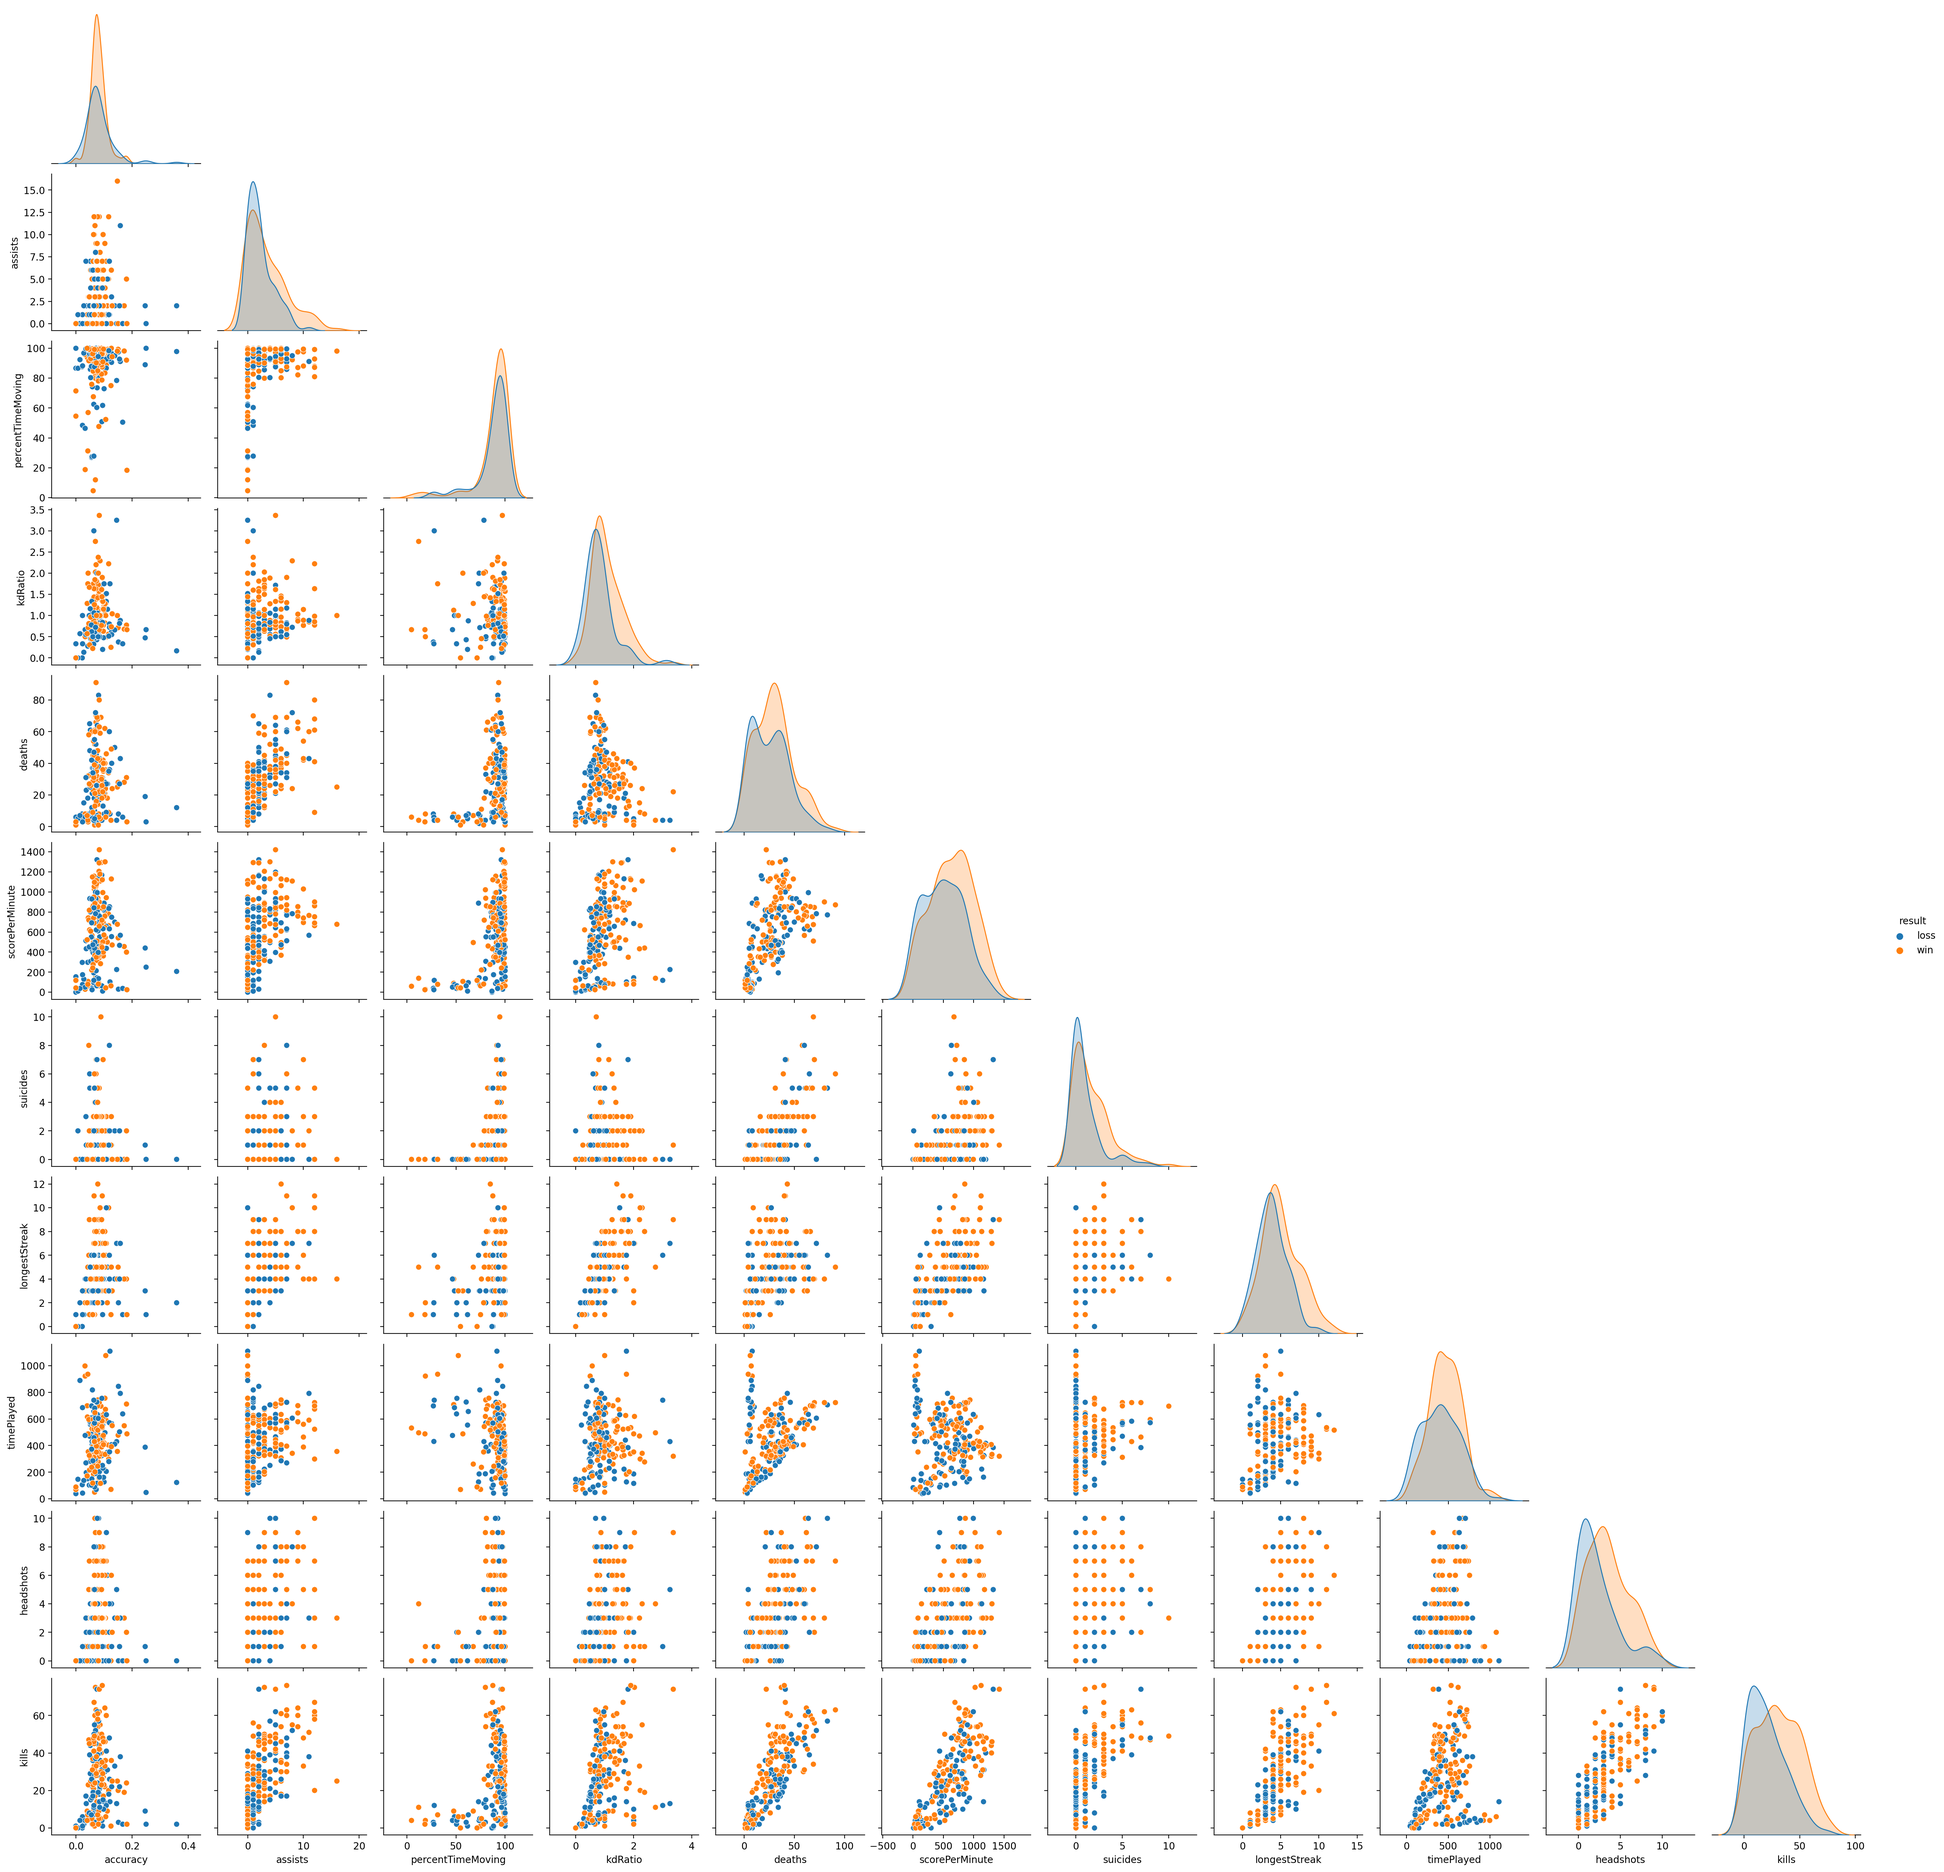
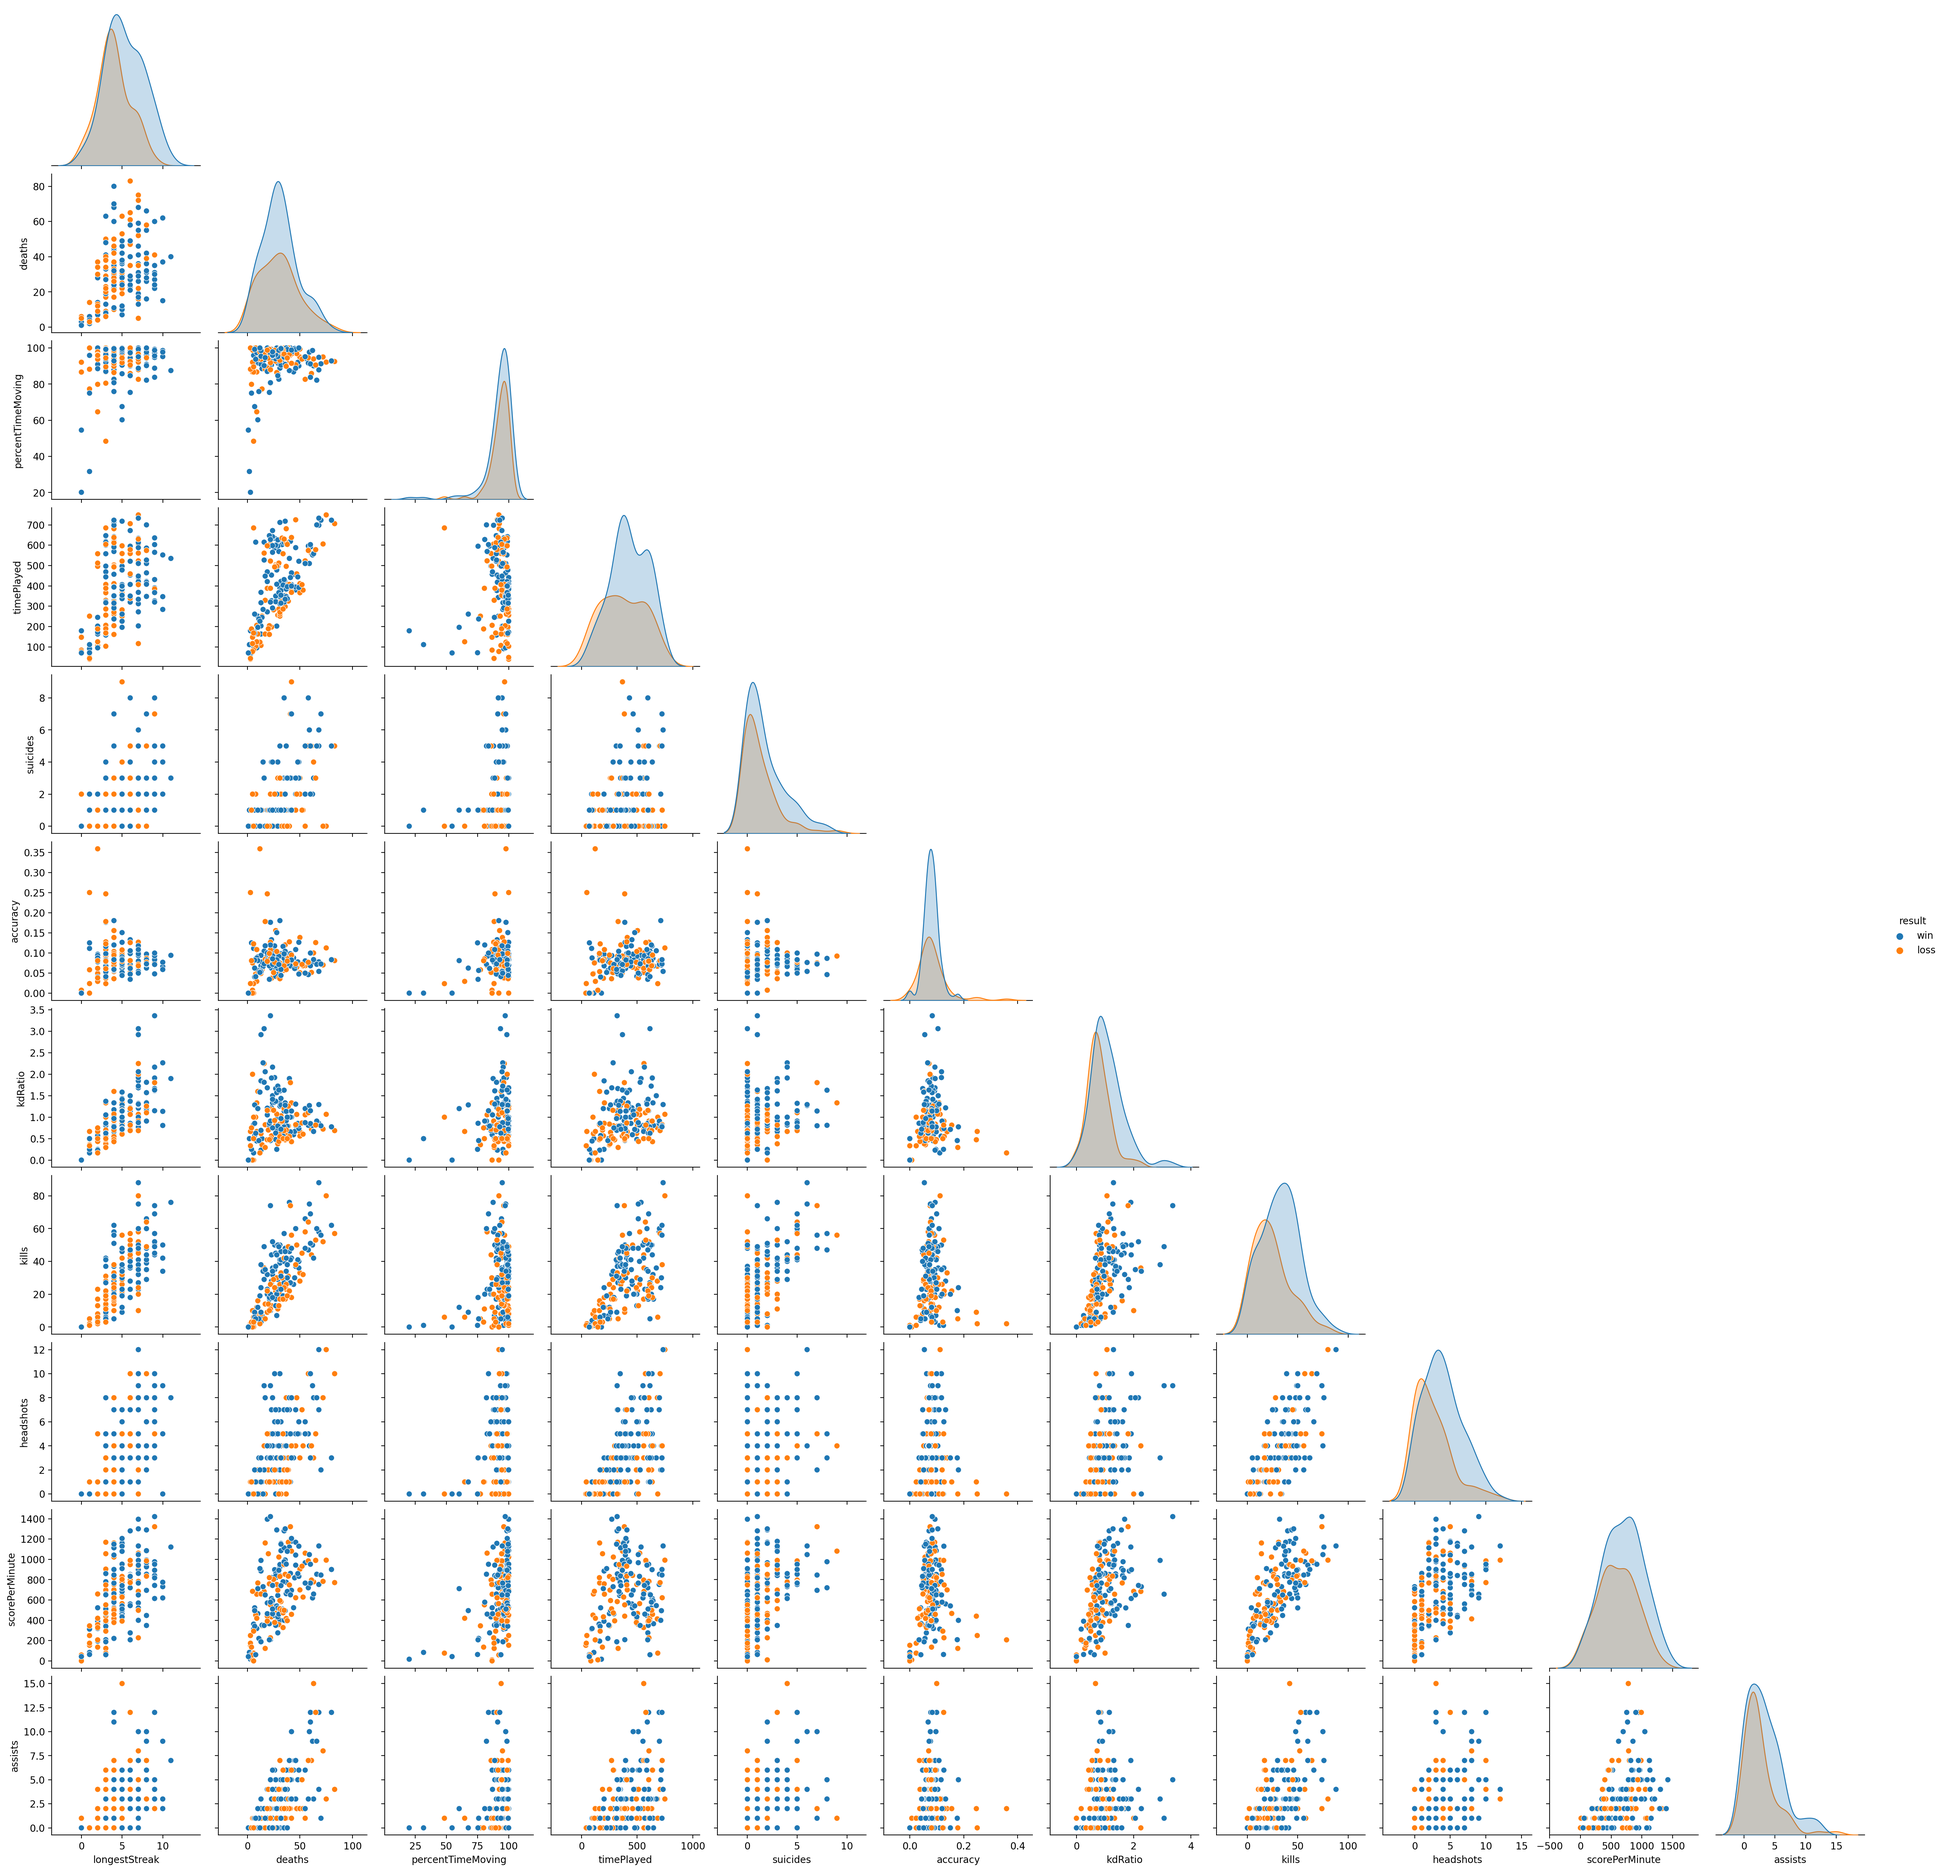
new filtering changes continued and prepping validation - still feeling sick

diff --git a/scripts/develop_models.py b/scripts/develop_models.py
@@ -51,7 +51,11 @@ def initialize_models():
 
 
 def onehotencode_features(features):
-    pass
+    nonencodable_features = features.drop(['map', 'mode'], axis=1)
+    encodable_features = features[['map','mode']]
+    encoded_features = pd.get_dummies(encodable_features).drop(['map', 'mode'], axis=1)
+    return pd.concat([nonencodable_features,encoded_features],axis=1)
+    
 
 
 
@@ -67,19 +71,29 @@ def optional_scale(model_type,training_data):
 
 
 
+def prepare_data(model_type, training_data):
+    features, labels = training_data
+    encoded_features = onehotencode_features(features)
+    new_training_data = encoded_features, labels
+    final_training_data = optional_scale(model_type=model_type, training_data = new_training_data)
+    return final_training_data
+
+
+
+
 def train_via_cross_validation(model, training_data):
-    cv_results = cross_validate(model, *training_data, scoring=f1_score) #default 5 fold validation
+    cv_results = cross_validate(model, *training_data, return_estimator=True) #default 5 fold validation
     return cv_results
 
 
 def select_best_model_from_cross_validation(cv_results):
     #get the estimator at the index of the max score in test score
-    return cv_results['estimator'][cv_results['test_score'].index(max(cv_results['test_score']))]
+    return cv_results['estimator'][cv_results['test_score'].argmax()]
 
 
 
 def train_via_grid_search(model,distributions_to_search,iterations_desired, training_data):
-    classifier = RandomizedSearchCV(model, distributions_to_search, scoring=f1_score,n_iter=iterations_desired, verbose=2)
+    classifier = RandomizedSearchCV(model, distributions_to_search,n_iter=iterations_desired, verbose=2)
     search_results = classifier.fit(*training_data)
     return search_results.best_estimator_
 
@@ -88,9 +102,10 @@ def train_via_grid_search(model,distributions_to_search,iterations_desired, trai
 def train_all_models(model_dict, training_data):
     fitted_models = {}
     for model_type, model in model_dict.items():
-        training_data = optional_scale(model_type=model_type, training_data = training_data)
+        prepped_training_data = prepare_data(model_type=model_type, training_data = training_data) #this encodes and scales the data if necessary
+
         #train model with cross validation
-        cross_validation_results = train_via_cross_validation(model,training_data)
+        cross_validation_results = train_via_cross_validation(model,prepped_training_data)
 
         #find best model
         best_model = select_best_model_from_cross_validation(cross_validation_results)
@@ -123,8 +138,8 @@ def rank_save_best_models(fitted_models, validation_data):
 def main():
     model_dict = initialize_models()
     training_data = load_data('training')
-    validation_data = load_data('validation')
-    # trained_models = train_all_models(model_dict,training_data)
+    # validation_data = load_data('validation')
+    trained_models = train_all_models(model_dict,training_data)
     # rank_save_best_models(trained_models,validation_data)
 
 

diff --git a/scripts/data_exploration.py b/scripts/data_exploration.py
@@ -9,13 +9,13 @@ this script does basic data exploration prior to modelling
 import pandas as pd, seaborn as sns
 
 def load_data(data_type):
-    features = pd.read_pickle(f'../data/{data_type}/features.pkl')
+    features = pd.read_pickle(f'../data/{data_type}/features.pkl').convert_dtypes()
     targets = pd.read_pickle(f'../data/{data_type}/target.pkl')
     return features, targets
 
 
 def visualize_numerical_data(desired_features, desired_targets):
-    combined_data = pd.concat([desired_features,desired_targets],axis=1).convert_dtypes()
+    combined_data = pd.concat([desired_features,desired_targets],axis=1)
     plottable_features = {'suicides', 'headshots', 'scorePerMinute', 'deaths', 'percentTimeMoving', 'longestStreak', 'timePlayed', 'accuracy', 'kdRatio', 'kills', 'assists', 'result'}
     plottable_data = combined_data[plottable_features]
     grid = sns.pairplot(plottable_data, corner=True, hue='result')

diff --git a/scripts/data_retrieval.py b/scripts/data_retrieval.py
@@ -43,7 +43,7 @@ def filter_relevant_data(retrieved_data):
     filtered_data = pd.DataFrame(new_data).T #this puts the match id as the index
     filtered_data.dropna(inplace=True)
     filtered_data = filtered_data[filtered_data['accuracy'] < 1.0] #get rid of "perfect accuracy" and no movement games
-    filtered_data = filtered_data[filtered_data['percentTimeMoving'] > 0.2]
+    filtered_data = filtered_data[filtered_data['percentTimeMoving'] > 20]
 
     #map must be in the hardcore shipment/shoot house options
 
